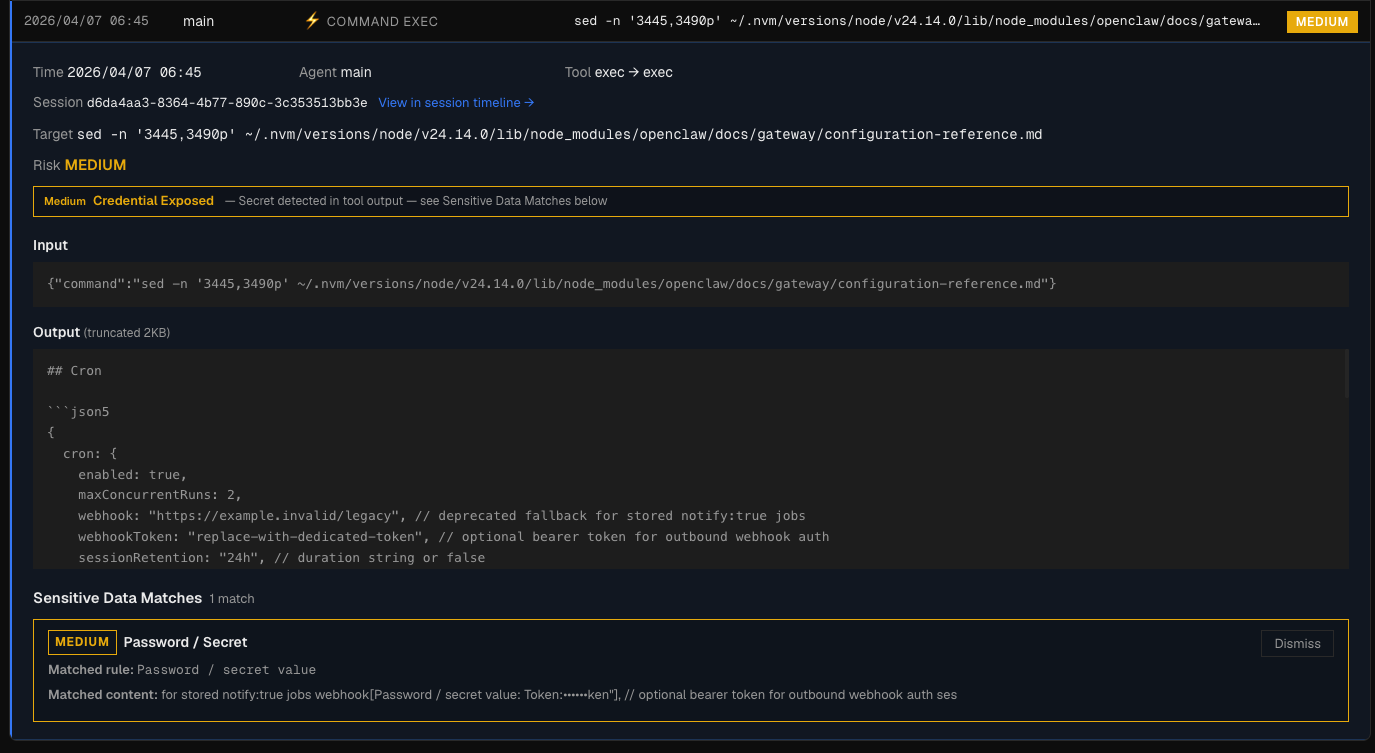
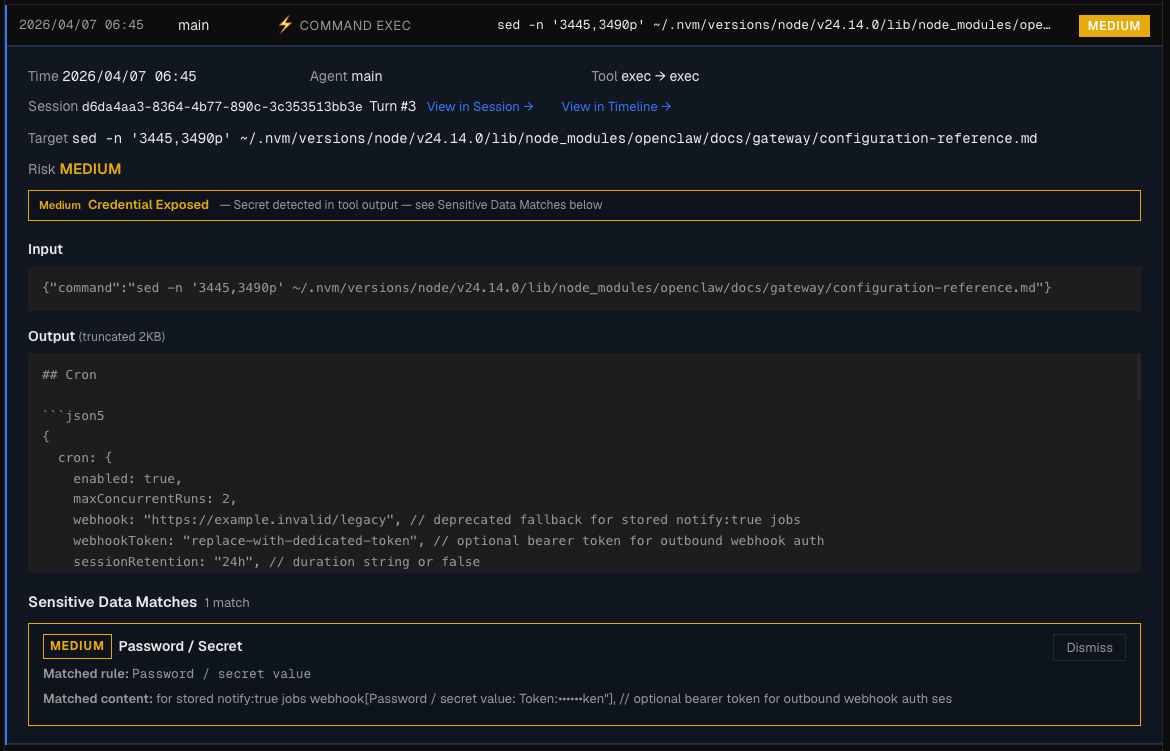
fix audit to session nav

diff --git a/src/ui/src/pages/Sessions.tsx b/src/ui/src/pages/Sessions.tsx
@@ -76,6 +76,8 @@ export default function Sessions() {
   const [detailTab, setDetailTab] = useState<'overview' | 'messages'>('overview');
   const [expandedMsgs, setExpandedMsgs] = useState<Set<string>>(new Set());
   const [msgContents, setMsgContents] = useState<Record<string, unknown[]>>({});
+  const [highlightedMsgId, setHighlightedMsgId] = useState<string | null>(null);
+  const highlightedMsgRef = useRef<HTMLTableRowElement | null>(null);
 
   // Sync agent filter from URL query param
   useEffect(() => {
@@ -88,6 +90,54 @@ export default function Sessions() {
     const sessionId = searchParams.get('q');
     if (sessionId) { setSelected(sessionId); shouldAutoScroll.current = true; }
   }, [searchParams]);
+
+  // Consume ?msg= once on arrival: set highlight state + open Messages tab + expand row,
+  // then immediately strip the param from the URL so any subsequent searchParams change
+  // (changing an agent filter, switching sessions, etc.) doesn't re-trigger this handler
+  // with a stale message id from the previous deeplink.
+  useEffect(() => {
+    const msgId = searchParams.get('msg');
+    if (!msgId) return;
+    setHighlightedMsgId(msgId);
+    setDetailTab('messages');
+    setExpandedMsgs(prev => { const next = new Set(prev); next.add(msgId); return next; });
+    setSearchParams(p => { p.delete('msg'); return p; }, { replace: true });
+  }, [searchParams, setSearchParams]);
+
+  // Fade the highlight after 5s. Keyed on highlightedMsgId so it survives the
+  // searchParams change triggered by the consumption above.
+  useEffect(() => {
+    if (!highlightedMsgId) return;
+    const HIGHLIGHT_FADE_MS = 5_000;
+    const timer = setTimeout(() => setHighlightedMsgId(null), HIGHLIGHT_FADE_MS);
+    return () => clearTimeout(timer);
+  }, [highlightedMsgId]);
+
+  // Scroll to highlighted message once its row mounts. Poll briefly so we survive
+  // the async message-list fetch + DOM attach.
+  useEffect(() => {
+    if (!highlightedMsgId) return;
+    let attempts = 0;
+    const poll = setInterval(() => {
+      attempts++;
+      if (highlightedMsgRef.current) {
+        highlightedMsgRef.current.scrollIntoView({ behavior: 'smooth', block: 'center' });
+        clearInterval(poll);
+      } else if (attempts > 40) {
+        clearInterval(poll);
+      }
+    }, 100);
+    return () => clearInterval(poll);
+  }, [highlightedMsgId, detailTab]);
+
+  // Pre-fetch content for the highlighted message so its expanded view shows content immediately
+  useEffect(() => {
+    if (!highlightedMsgId || !selected || msgContents[highlightedMsgId]) return;
+    fetch(`/api/sessions/${selected}/messages/${highlightedMsgId}/content`)
+      .then(r => r.ok ? r.json() : null)
+      .then(d => { if (d?.content) setMsgContents(prev => ({ ...prev, [highlightedMsgId]: d.content })); })
+      .catch(() => {});
+  }, [highlightedMsgId, selected]);
 
   // Auto-scroll to selected row once sessions are loaded
   useEffect(() => {
@@ -669,8 +719,14 @@ export default function Sessions() {
                                         return (
                                         <React.Fragment key={msg.id}>
                                         <tr
+                                          ref={msg.id === highlightedMsgId ? highlightedMsgRef : null}
                                           onClick={e => { e.stopPropagation(); setExpandedMsgs(prev => { const next = new Set(prev); if (next.has(msg.id)) next.delete(msg.id); else { next.add(msg.id); if (!msgContents[msg.id] && selected) { fetch(`/api/sessions/${selected}/messages/${msg.id}/content`).then(r => { if (!r.ok) throw new Error(`HTTP ${r.status}`); return r.json(); }).then(d => { if (d.content) setMsgContents(prev2 => ({ ...prev2, [msg.id]: d.content })); }).catch(() => {}); } } return next; }); }}
-                                          style={{ cursor: 'pointer', background: isExp ? 'rgba(59,130,246,0.05)' : undefined }}
+                                          style={{
+                                            cursor: 'pointer',
+                                            background: msg.id === highlightedMsgId ? 'rgba(59,130,246,0.22)' : isExp ? 'rgba(59,130,246,0.05)' : undefined,
+                                            outline: msg.id === highlightedMsgId ? '2px solid var(--C-blue)' : 'none',
+                                            transition: 'background 0.3s, outline 0.3s',
+                                          }}
                                         >
                                           <td style={{ ...TD_STYLE, color: 'var(--muted)', fontSize: 10 }}>{isExp ? '▼' : '▶'}</td>
                                           <td style={{ ...TD_STYLE, color: 'var(--faint)' }}>{msg.seq}</td>

diff --git a/src/server/api/audit.ts b/src/server/api/audit.ts
@@ -88,6 +88,22 @@ export function auditRouter(db: Database.Database): Router {
   r.get('/event/:id', (req, res) => {
     const row = db.prepare('SELECT * FROM audit_events WHERE id = ?').get(req.params.id) as Record<string, unknown> | undefined;
     if (!row) return res.status(404).json({ error: 'Audit event not found' });
+    // Compute turn_number: count of assistant messages in this session up to (and including) this event's timestamp
+    const turnRow = db.prepare(
+      `SELECT COUNT(*) AS turn_number FROM messages WHERE session_id = ? AND role = 'assistant' AND timestamp <= ?`,
+    ).get(row.session_id, row.timestamp) as { turn_number: number } | undefined;
+    const turn_number = turnRow?.turn_number ?? 0;
+    // Find the nearest message to this event's timestamp for Sessions drill-down.
+    // Exclude synthetic assistants (delivery-mirror / gateway-injected) because
+    // Sessions.tsx /messages endpoint filters them out — returning one of those ids
+    // here would make the ?msg= highlight/scroll silently fail to find a matching row.
+    const msgRow = db.prepare(
+      `SELECT id FROM messages
+       WHERE session_id = ? AND timestamp <= ?
+         AND (role != 'assistant' OR model NOT IN ('delivery-mirror', 'gateway-injected'))
+       ORDER BY timestamp DESC LIMIT 1`,
+    ).get(row.session_id, row.timestamp) as { id: string } | undefined;
+    const message_id = msgRow?.id ?? null;
     // Attach baseline context so UI can explain anomaly flags
     const baselineRow = db.prepare('SELECT typical_hours, avg_tool_calls_per_session, typical_paths FROM agent_baselines WHERE agent_id = ?').get(row.agent_id) as { typical_hours: string; avg_tool_calls_per_session: number; typical_paths: string } | undefined;
     const safeParseArr = (v: string | undefined | null): unknown[] => { try { return JSON.parse(v || '[]') ?? []; } catch { return []; } };
@@ -96,7 +112,7 @@ export function auditRouter(db: Database.Database): Router {
       avg_tool_calls_per_session: Math.round(baselineRow.avg_tool_calls_per_session),
       typical_paths: safeParseArr(baselineRow.typical_paths) as string[],
     } : null;
-    res.json({ ...row, baseline });
+    res.json({ ...row, turn_number, message_id, baseline });
   });
 
   // GET /api/audit/event/:id/following-calls — external calls in the same session AFTER this event

diff --git a/src/ui/src/components/DataAccessTimeline.tsx b/src/ui/src/components/DataAccessTimeline.tsx
@@ -344,9 +344,20 @@ export default function DataAccessTimeline({ agentId, eventType, riskLevel, star
                                 <span style={{ marginLeft: '.5rem', color: 'var(--text)' }}>{t('timeline.turnNum', { num: detail.turn_number })}</span>
                               )}
                               <a
-                                href={`/timeline?session=${detail.session_id}${detail.turn_number > 0 ? `&turn=${detail.turn_number}` : ''}`}
+                                href={`/sessions?q=${detail.session_id}${detail.message_id ? `&msg=${detail.message_id}` : ''}`}
+                                target="_blank"
+                                rel="noopener noreferrer"
                                 onClick={e => { e.stopPropagation(); }}
-                                style={{ marginLeft: '.75rem', color: 'var(--C-blue)', fontSize: 13, textDecoration: 'none' }}
+                                style={{ marginLeft: '.75rem', color: 'var(--C-blue)', fontSize: 13, textDecoration: 'none', cursor: 'pointer' }}
+                              >
+                                {t('timeline.viewInSessions')}
+                              </a>
+                              <a
+                                href={`/timeline?session=${detail.session_id}${detail.turn_number > 0 ? `&turn=${detail.turn_number}` : ''}`}
+                                target="_blank"
+                                rel="noopener noreferrer"
+                                onClick={e => { e.stopPropagation(); }}
+                                style={{ marginLeft: '2rem', color: 'var(--C-blue)', fontSize: 13, textDecoration: 'none', cursor: 'pointer' }}
                               >
                                 {t('timeline.viewInTimeline')}
                               </a>

diff --git a/src/ui/src/pages/SessionTimeline.tsx b/src/ui/src/pages/SessionTimeline.tsx
@@ -987,10 +987,13 @@ export default function SessionTimeline() {
     }
   }, [turnParam, selectedSession]);
 
-  // Keep URL in sync when session changes
+  // Keep URL in sync when session changes, preserving turn param if present
   useEffect(() => {
-    if (selectedSession) setSearchParams({ session: selectedSession }, { replace: true });
-    else setSearchParams({}, { replace: true });
+    const params: Record<string, string> = {};
+    if (selectedSession) params.session = selectedSession;
+    const existingTurn = searchParams.get('turn');
+    if (existingTurn) params.turn = existingTurn;
+    setSearchParams(params, { replace: true });
   }, [selectedSession]);
 
   const url = selectedSession ? `/api/debug/session/${selectedSession}/timeline` : '';

diff --git a/src/ui/src/constants/auditTypes.ts b/src/ui/src/constants/auditTypes.ts
@@ -28,6 +28,7 @@ export interface EventDetail {
   raw_input: string;
   raw_output: string;
   turn_number: number;
+  message_id: string | null;
   user_context: string;
   baseline?: {
     typical_hours: number[];
